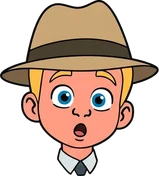
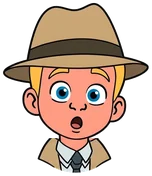
Bê: casaco em todas as cabeças (padrão das 07-10)

Changed region(s): [[0.0, 0.0, 1.0, 1.0]]

diff --git a/index.html b/index.html
@@ -925,7 +925,7 @@ const NARR={nome:'Lucas',imgs:['assets/lucas.webp'],cab:['lucas']};
 const CAB={be:{feliz:6,surpresa:1,duvida:7,serio:4,piscada:3},gabi:{feliz:3,surpresa:2,duvida:1,serio:4,piscada:9},
  lucas:{feliz:5,surpresa:3,duvida:1,serio:2,piscada:9},pipoca:{feliz:10,surpresa:1,duvida:7,serio:9,piscada:12}};
 const humor=x=>/errad|falta|ainda|n[ãa]o /i.test(x)?'serio':/certa|complet|fechad|parab|boa|isso/i.test(x)?'feliz':/\?/.test(x)?'duvida':/!/.test(x)?'surpresa':'piscada';
-const cabUrl=(n,h)=>`assets/cab/${n}-${String(CAB[n][h]).padStart(2,'0')}.webp`;   // o Bê sumiu: quem guia é a turma
+const cabUrl=(n,h)=>`assets/cab/${n}-${String(CAB[n][h]).padStart(2,'0')}.webp?v=2`;   // o Bê sumiu: quem guia é a turma
 function beFala(t,tit,quem){const B=$('#balao'),be=$('#beBtn')||document.createElement('i'),Q=B.querySelector('.beQ'),q=quem||NARR,hu=q.humor||humor((tit||'')+' '+t),im=q.cab?q.cab.map(n=>cabUrl(n,hu)):q.imgs;   // quem={nome,imgs,fixo}: outro ajudante no mesmo balão
   Q.className='beQ'+(q.cabeca||q.cab?' cab':' corpo')+(im.length>1?' g':'');Q.innerHTML=im.map(u=>`<img src="${u}" alt="">`).join('');B.querySelector('.beNome').textContent=q.nome.toUpperCase();
   $('#beTx').innerHTML=(tit?`<b>${tit}</b>`:'')+t;B.classList.add('on');clearTimeout(B._t);if(quem&&quem.fixo)return;be.classList.remove('fala');void be.offsetWidth;be.classList.add('fala');
